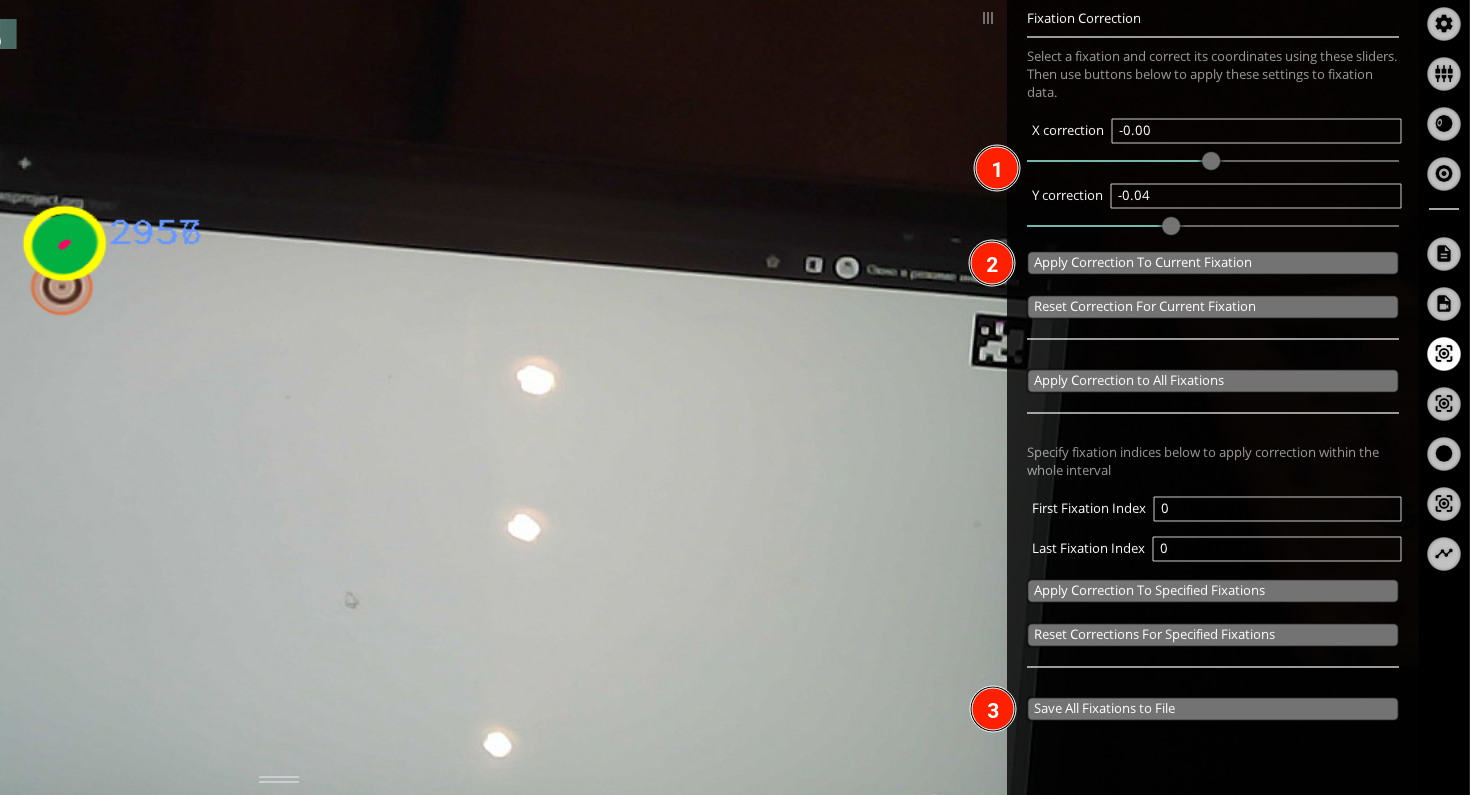
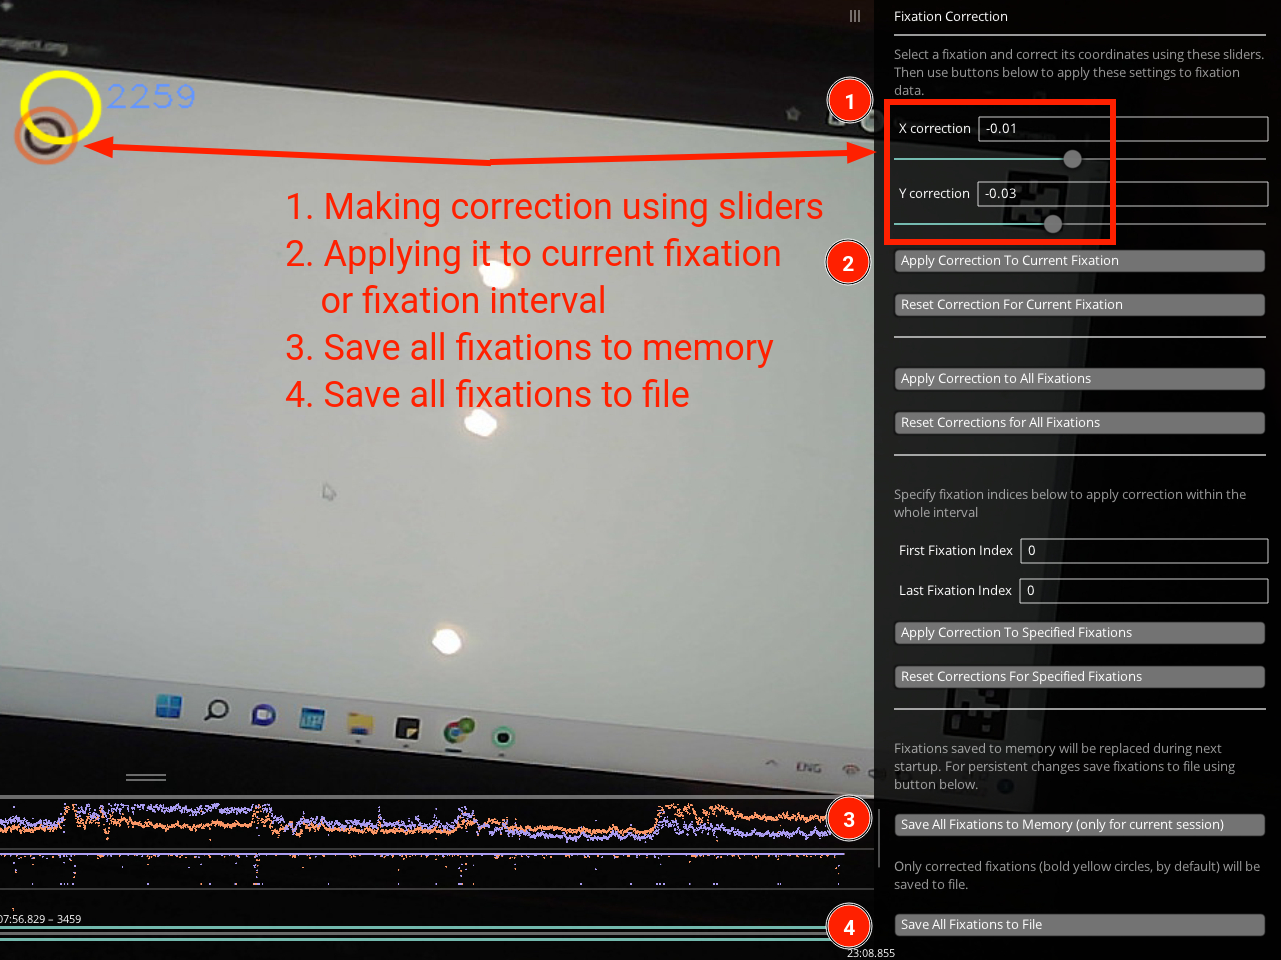
Info and usage screenshot updated

diff --git a/README.md b/README.md
@@ -1,2 +1,23 @@
-# fixation-correction
-Fixation Correction Plugin for Pupil Labs Software
+# Fixation Correction Plugin for Pupil Labs Software
+
+This plugin allows you to correct detected fixations and export them to file.
+
+![Fixation Correction Usage](./screenshots/fixation-correction-usage.png)
+
+## Installation
+
+Copy `fixation_correction.py` to `pupil_player_settings/plugins` folder which is located in your user's home directory:
+
+* In Linux, `/home/<username>/pupil_player_settings/plugins`.
+* In Windows, `C:\Users\<username>\pupil_player_settings\plugins`.
+
+Enable *Fixation Correction* plugin in Plugin Manager.
+
+## Usage
+
+1. Use Fixation Detector to detect fixations.
+2. Select a fixation to correct.
+3. Use sliders and visualization (semi-transparent orange circle) to make a correction.
+4. Apply a correction to current fixation or even fixation interval (specify first and last fixations indices).
+5. Save fixations to memory (obligatory step).
+6. Save fixations to file.
